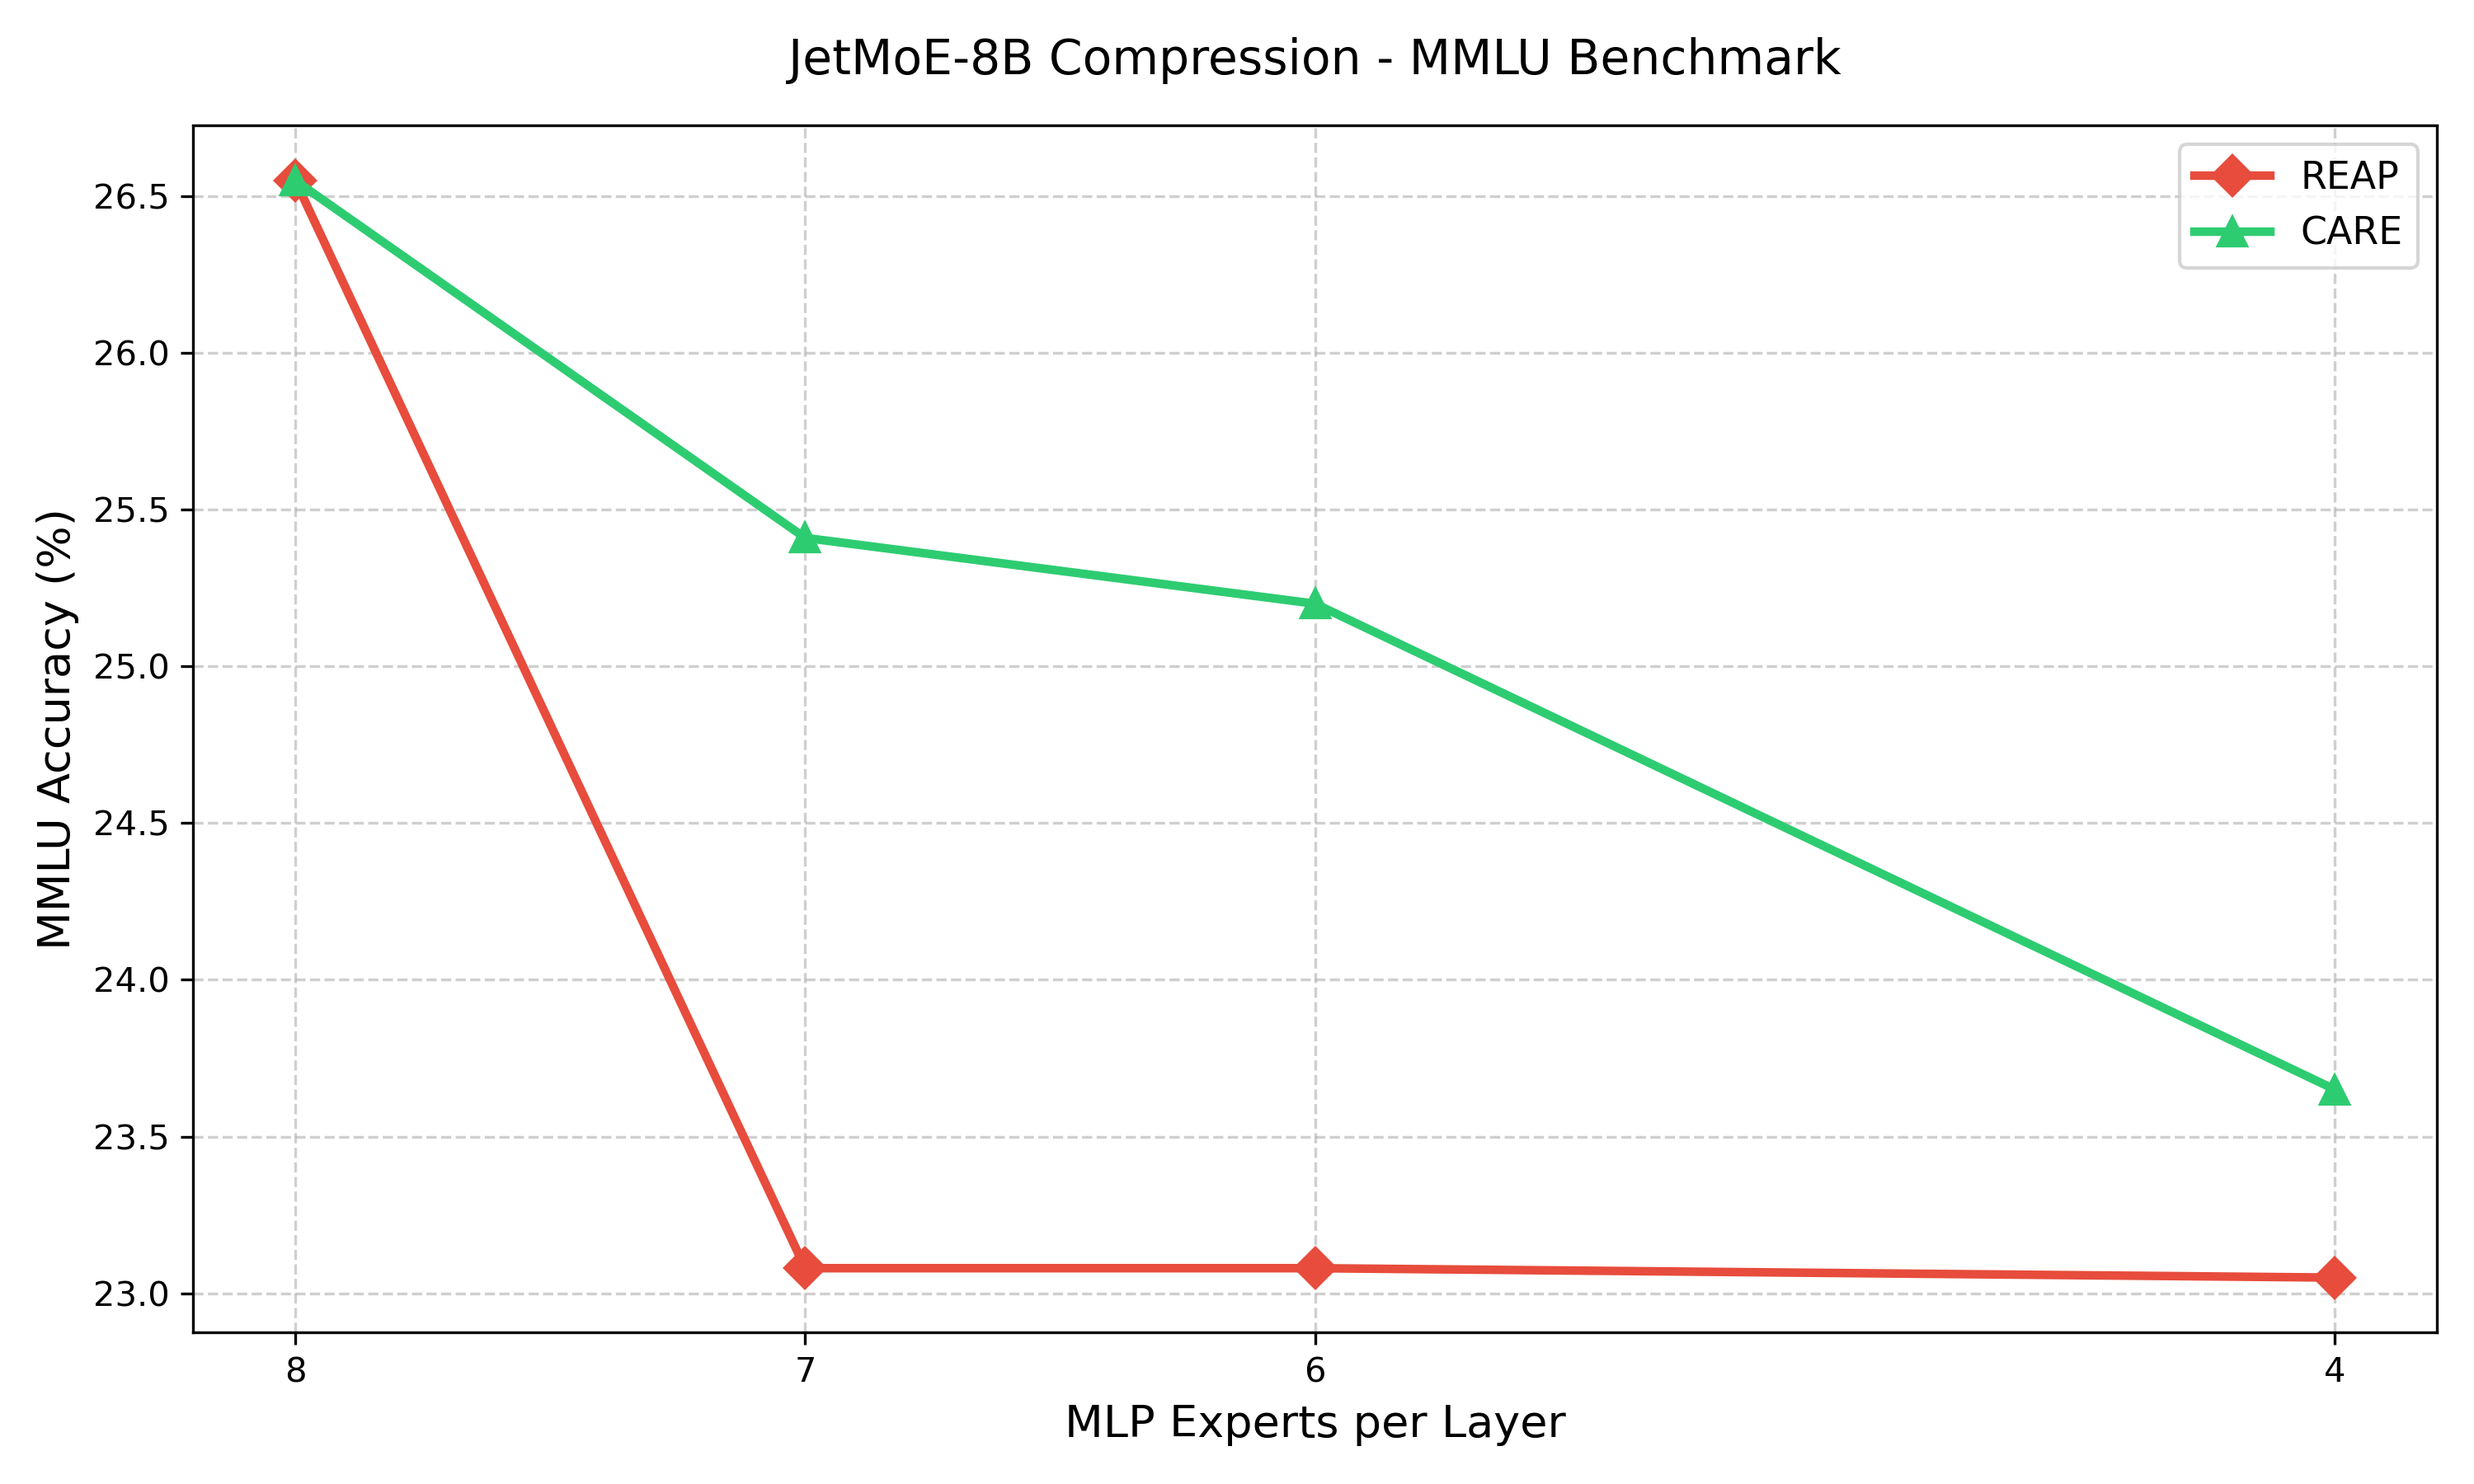
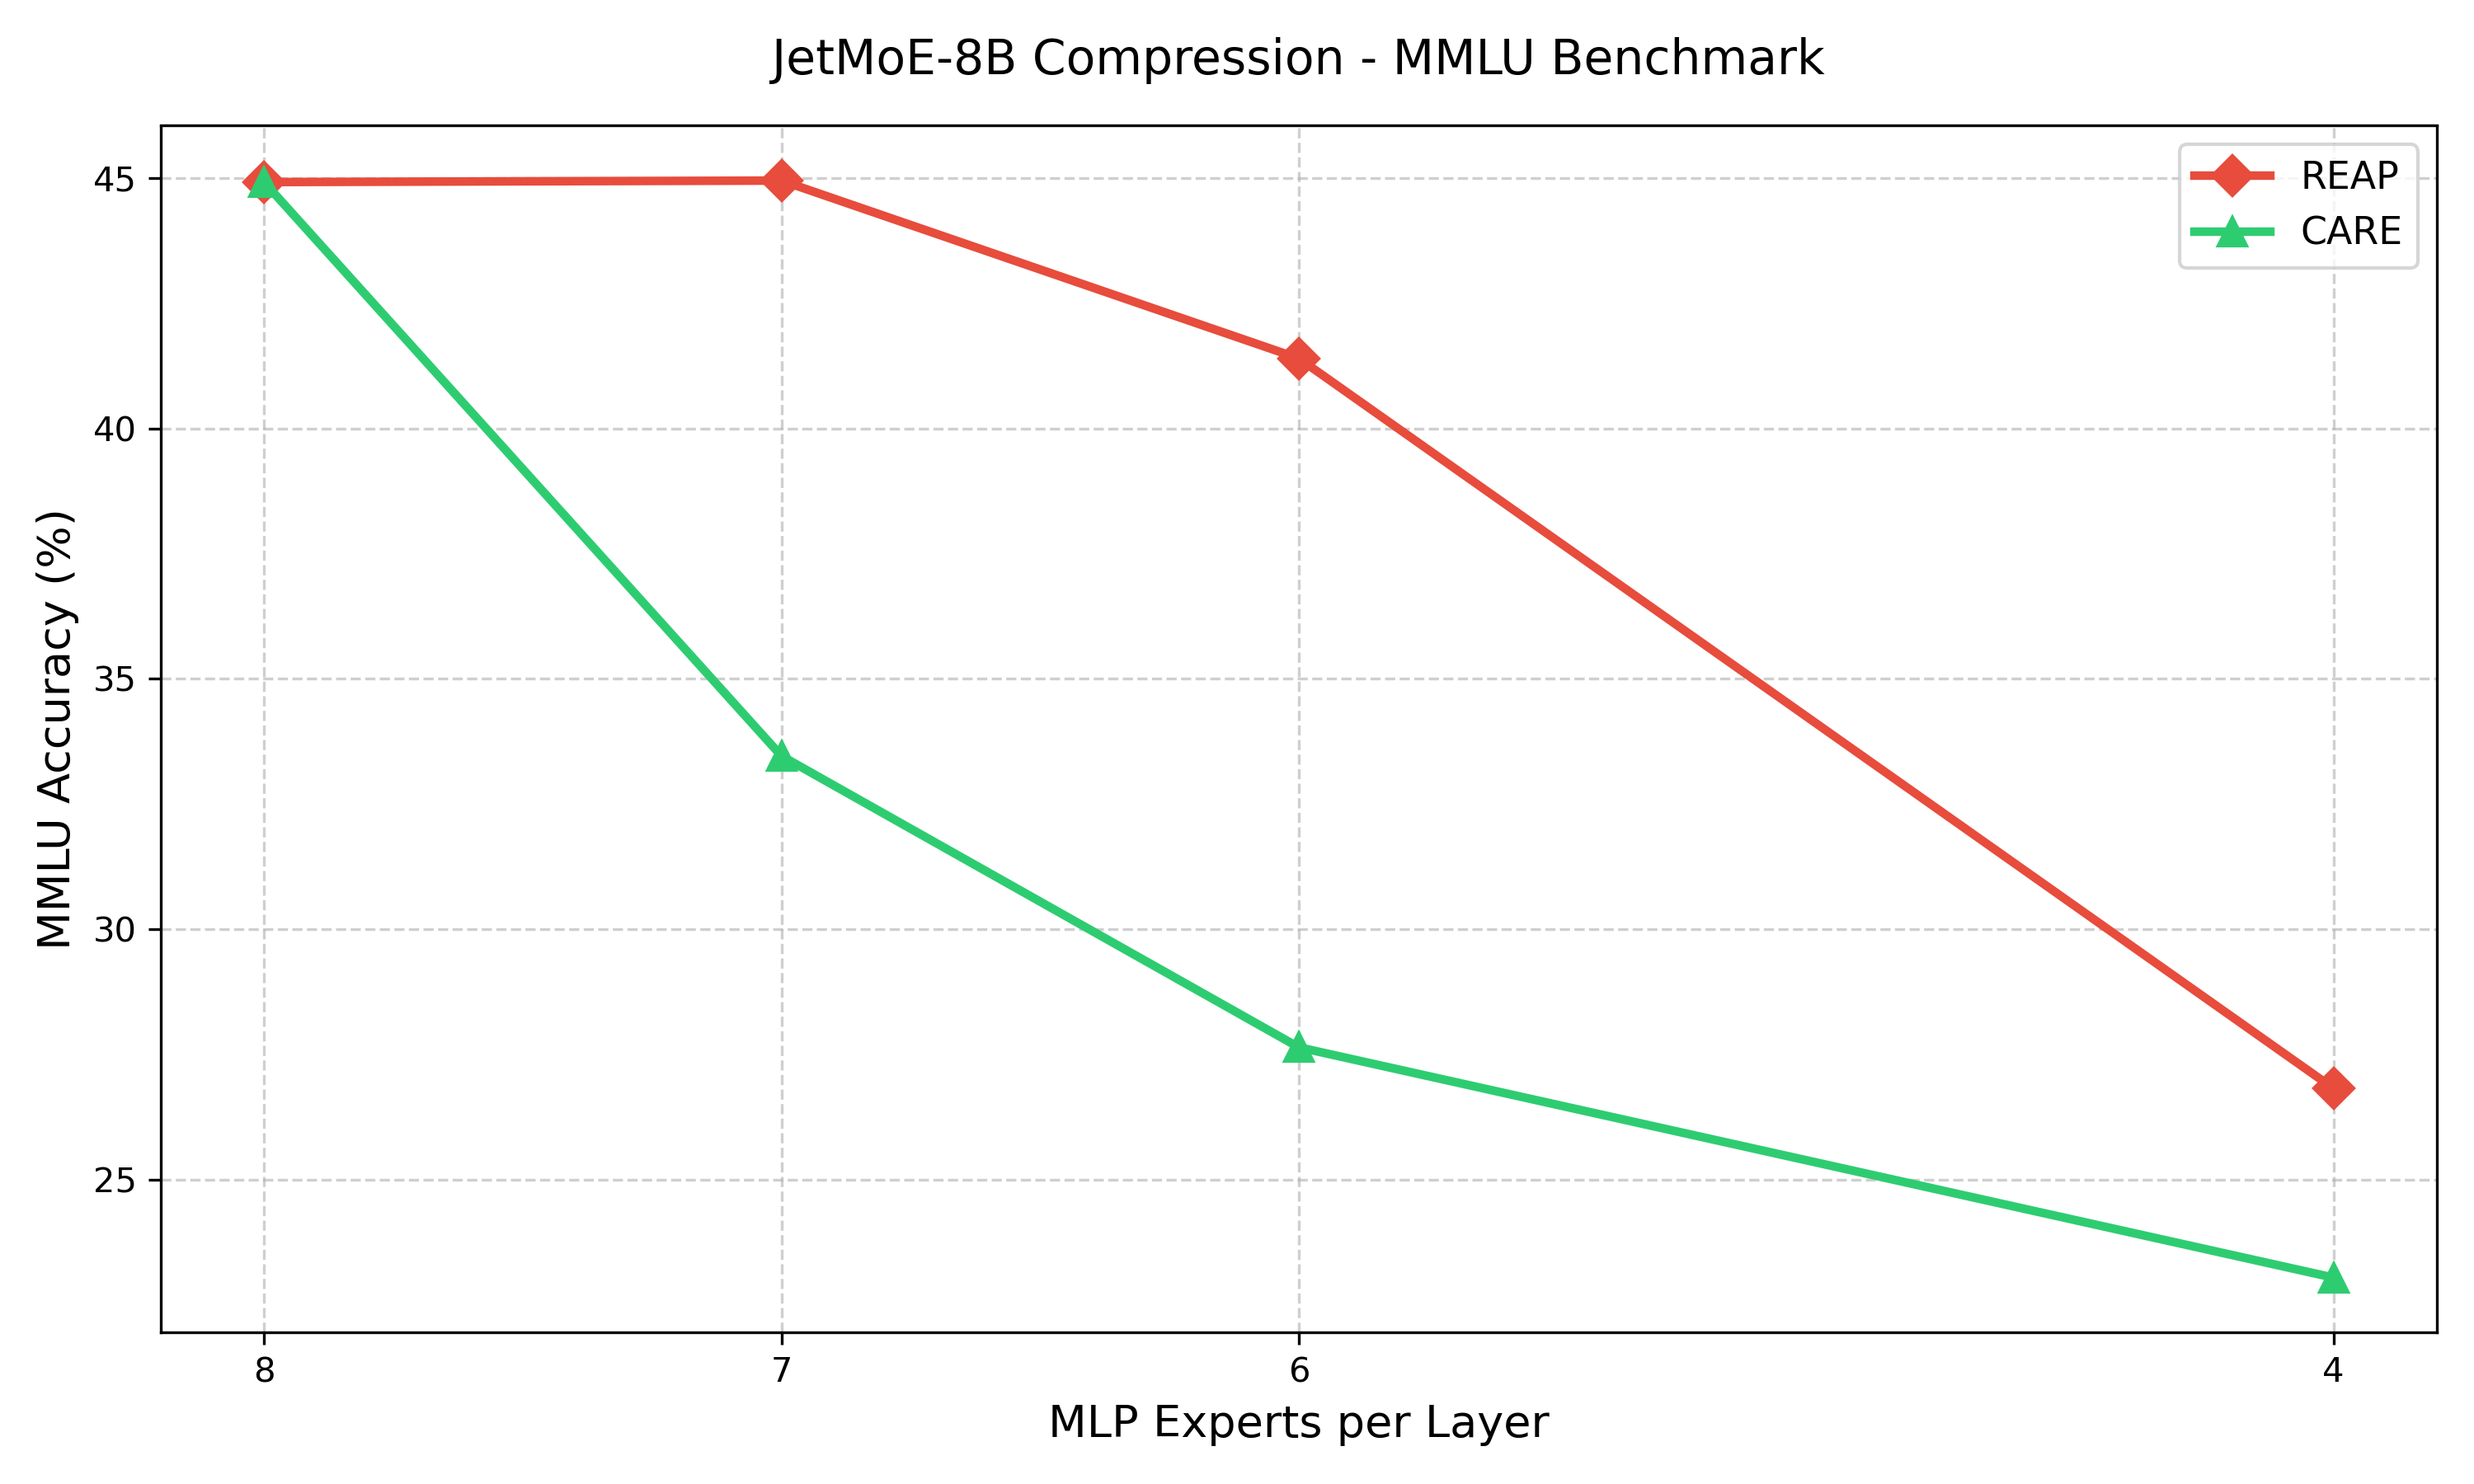
Fix tuple error from gate and correctly capture MLP input

diff --git a/experiments/experiment8/dry_run_sanity.py b/experiments/experiment8/dry_run_sanity.py
@@ -55,6 +55,10 @@ def run_sanity_checks():
             return (hidden_states,) + output[1:]
         return hidden_states
         
+    def pre_fw_hook(module, args):
+        captured['mlp_input'] = args[0].detach().clone()
+        return args
+
     def get_experts_and_routing(hidden_states):
         # We need to manually do what the OLMoE MLP does to verify routing coefficients and experts
         mlp = target_layer.mlp
@@ -62,7 +66,9 @@ def run_sanity_checks():
         hidden_states = hidden_states.view(-1, hidden_dim)
         
         router_logits = mlp.gate(hidden_states)
-        routing_weights = F.softmax(router_logits, dim=1, dtype=torch.float)
+        if isinstance(router_logits, tuple):
+            router_logits = router_logits[0]
+        routing_weights = F.softmax(router_logits, dim=-1, dtype=torch.float)
         routing_weights, selected_experts = torch.topk(routing_weights, mlp.top_k, dim=-1)
         
         if mlp.norm_top_k_prob:
@@ -96,6 +102,7 @@ def run_sanity_checks():
 
     # 2. Activation-Gradient Verification & 4. Exact post-top-k router coefficient verification
     print("\n2 & 4. Activation-Gradient & Router Coefficient Verification...")
+    pre_hook = target_layer.mlp.register_forward_pre_hook(pre_fw_hook)
     h_hook = target_layer.mlp.register_forward_hook(fw_hook, with_kwargs=True)
     
     # Forward pass requiring grad
@@ -112,9 +119,10 @@ def run_sanity_checks():
         print("   FAIL: grad_h is None.")
         
     h_hook.remove()
+    pre_hook.remove()
     
     # Manual forward to get experts
-    h_manual, E_dense, full_routing = get_experts_and_routing(model.model.layers[layer_idx].input_layernorm(model.model.embed_tokens(input_ids)))
+    h_manual, E_dense, full_routing = get_experts_and_routing(captured['mlp_input'])
     
     # 3. One-pair algebraic reconstruction
     print("\n3. One-pair algebraic reconstruction...")

diff --git a/analysis/s5_plot_multicapability.py b/analysis/s5_plot_multicapability.py
@@ -9,7 +9,7 @@ os.makedirs(OUT_DIR, exist_ok=True)
 
 # Data extracted from Phase 12 execution logs
 base_ppl = 7.1258
-base_mmlu = 0.2655
+base_mmlu = 0.4492
 
 data_ppl = {
     "Random": {4: 5128.3320, 6: 106.4914, 7: 25.9373, 8: base_ppl},
@@ -19,8 +19,8 @@ data_ppl = {
 }
 
 data_mmlu = {
-    "REAP": {4: 0.2305, 6: 0.2308, 7: 0.2308, 8: base_mmlu},
-    "CARE": {4: 0.2365, 6: 0.2520, 7: 0.2541, 8: base_mmlu},
+    "REAP": {4: 0.2682, 6: 0.4140, 7: 0.4495, 8: base_mmlu},
+    "CARE": {4: 0.2304, 6: 0.2764, 7: 0.3346, 8: base_mmlu},
 }
 
 colors = {"Random": "#95a5a6", "Sub-MoE": "#3498db", "REAP": "#e74c3c", "CARE": "#2ecc71"}
